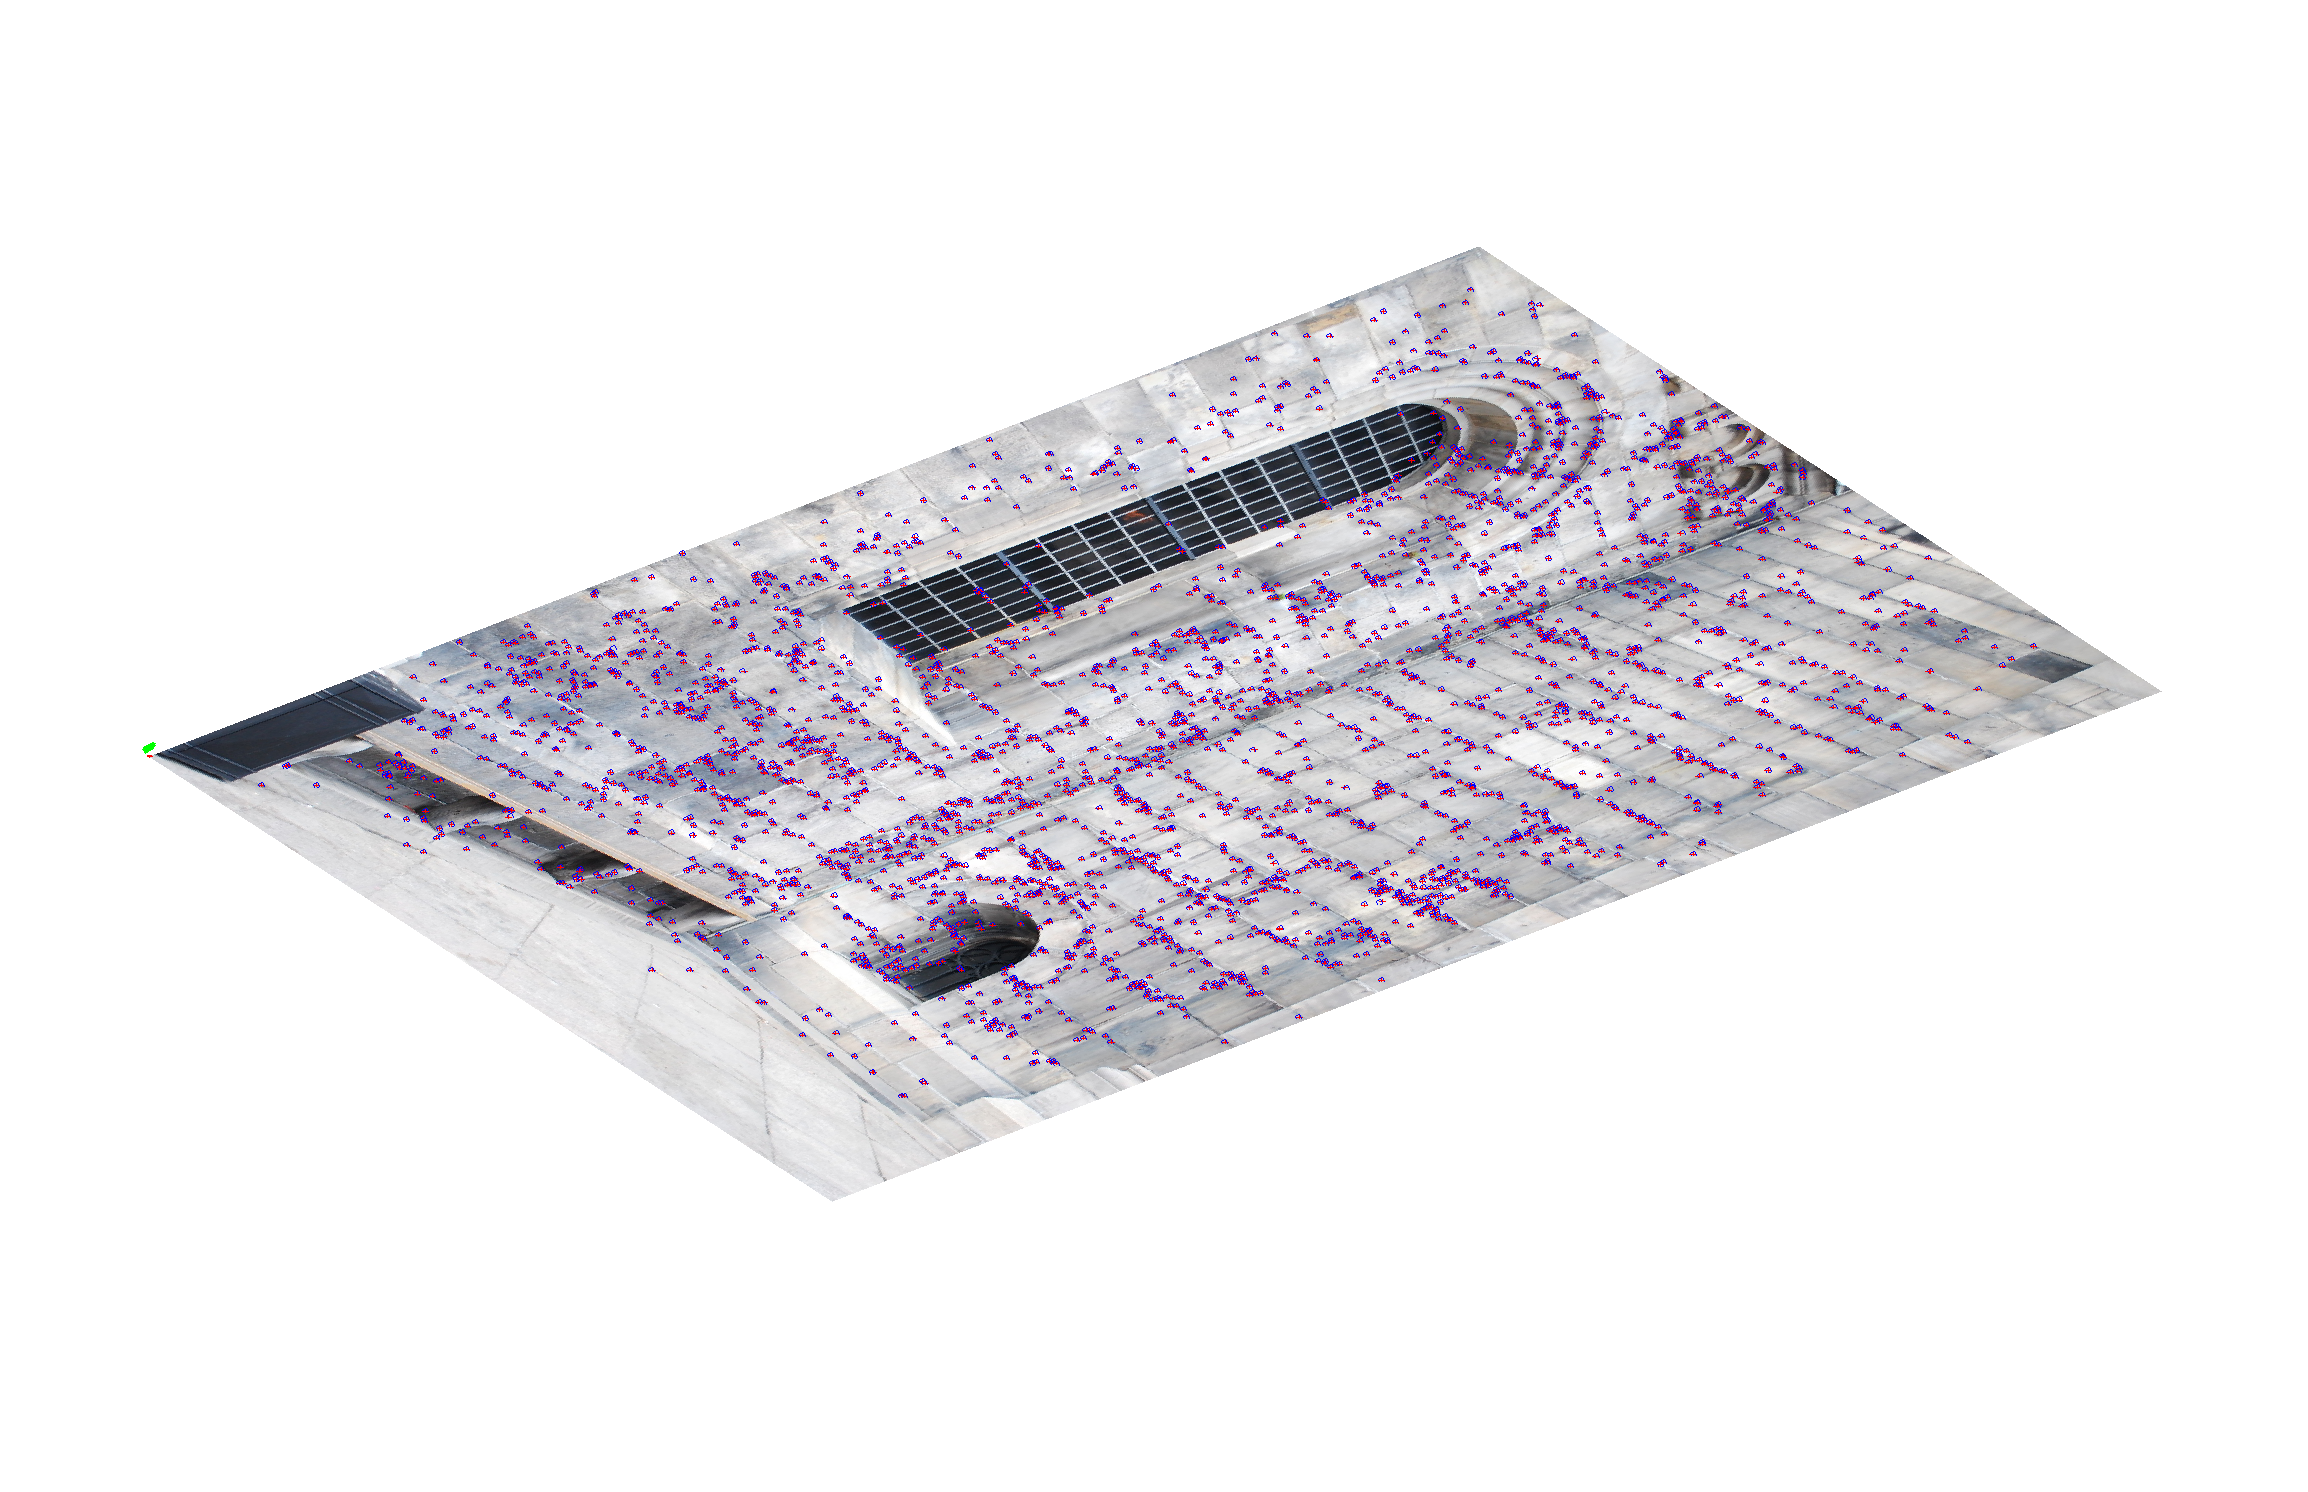
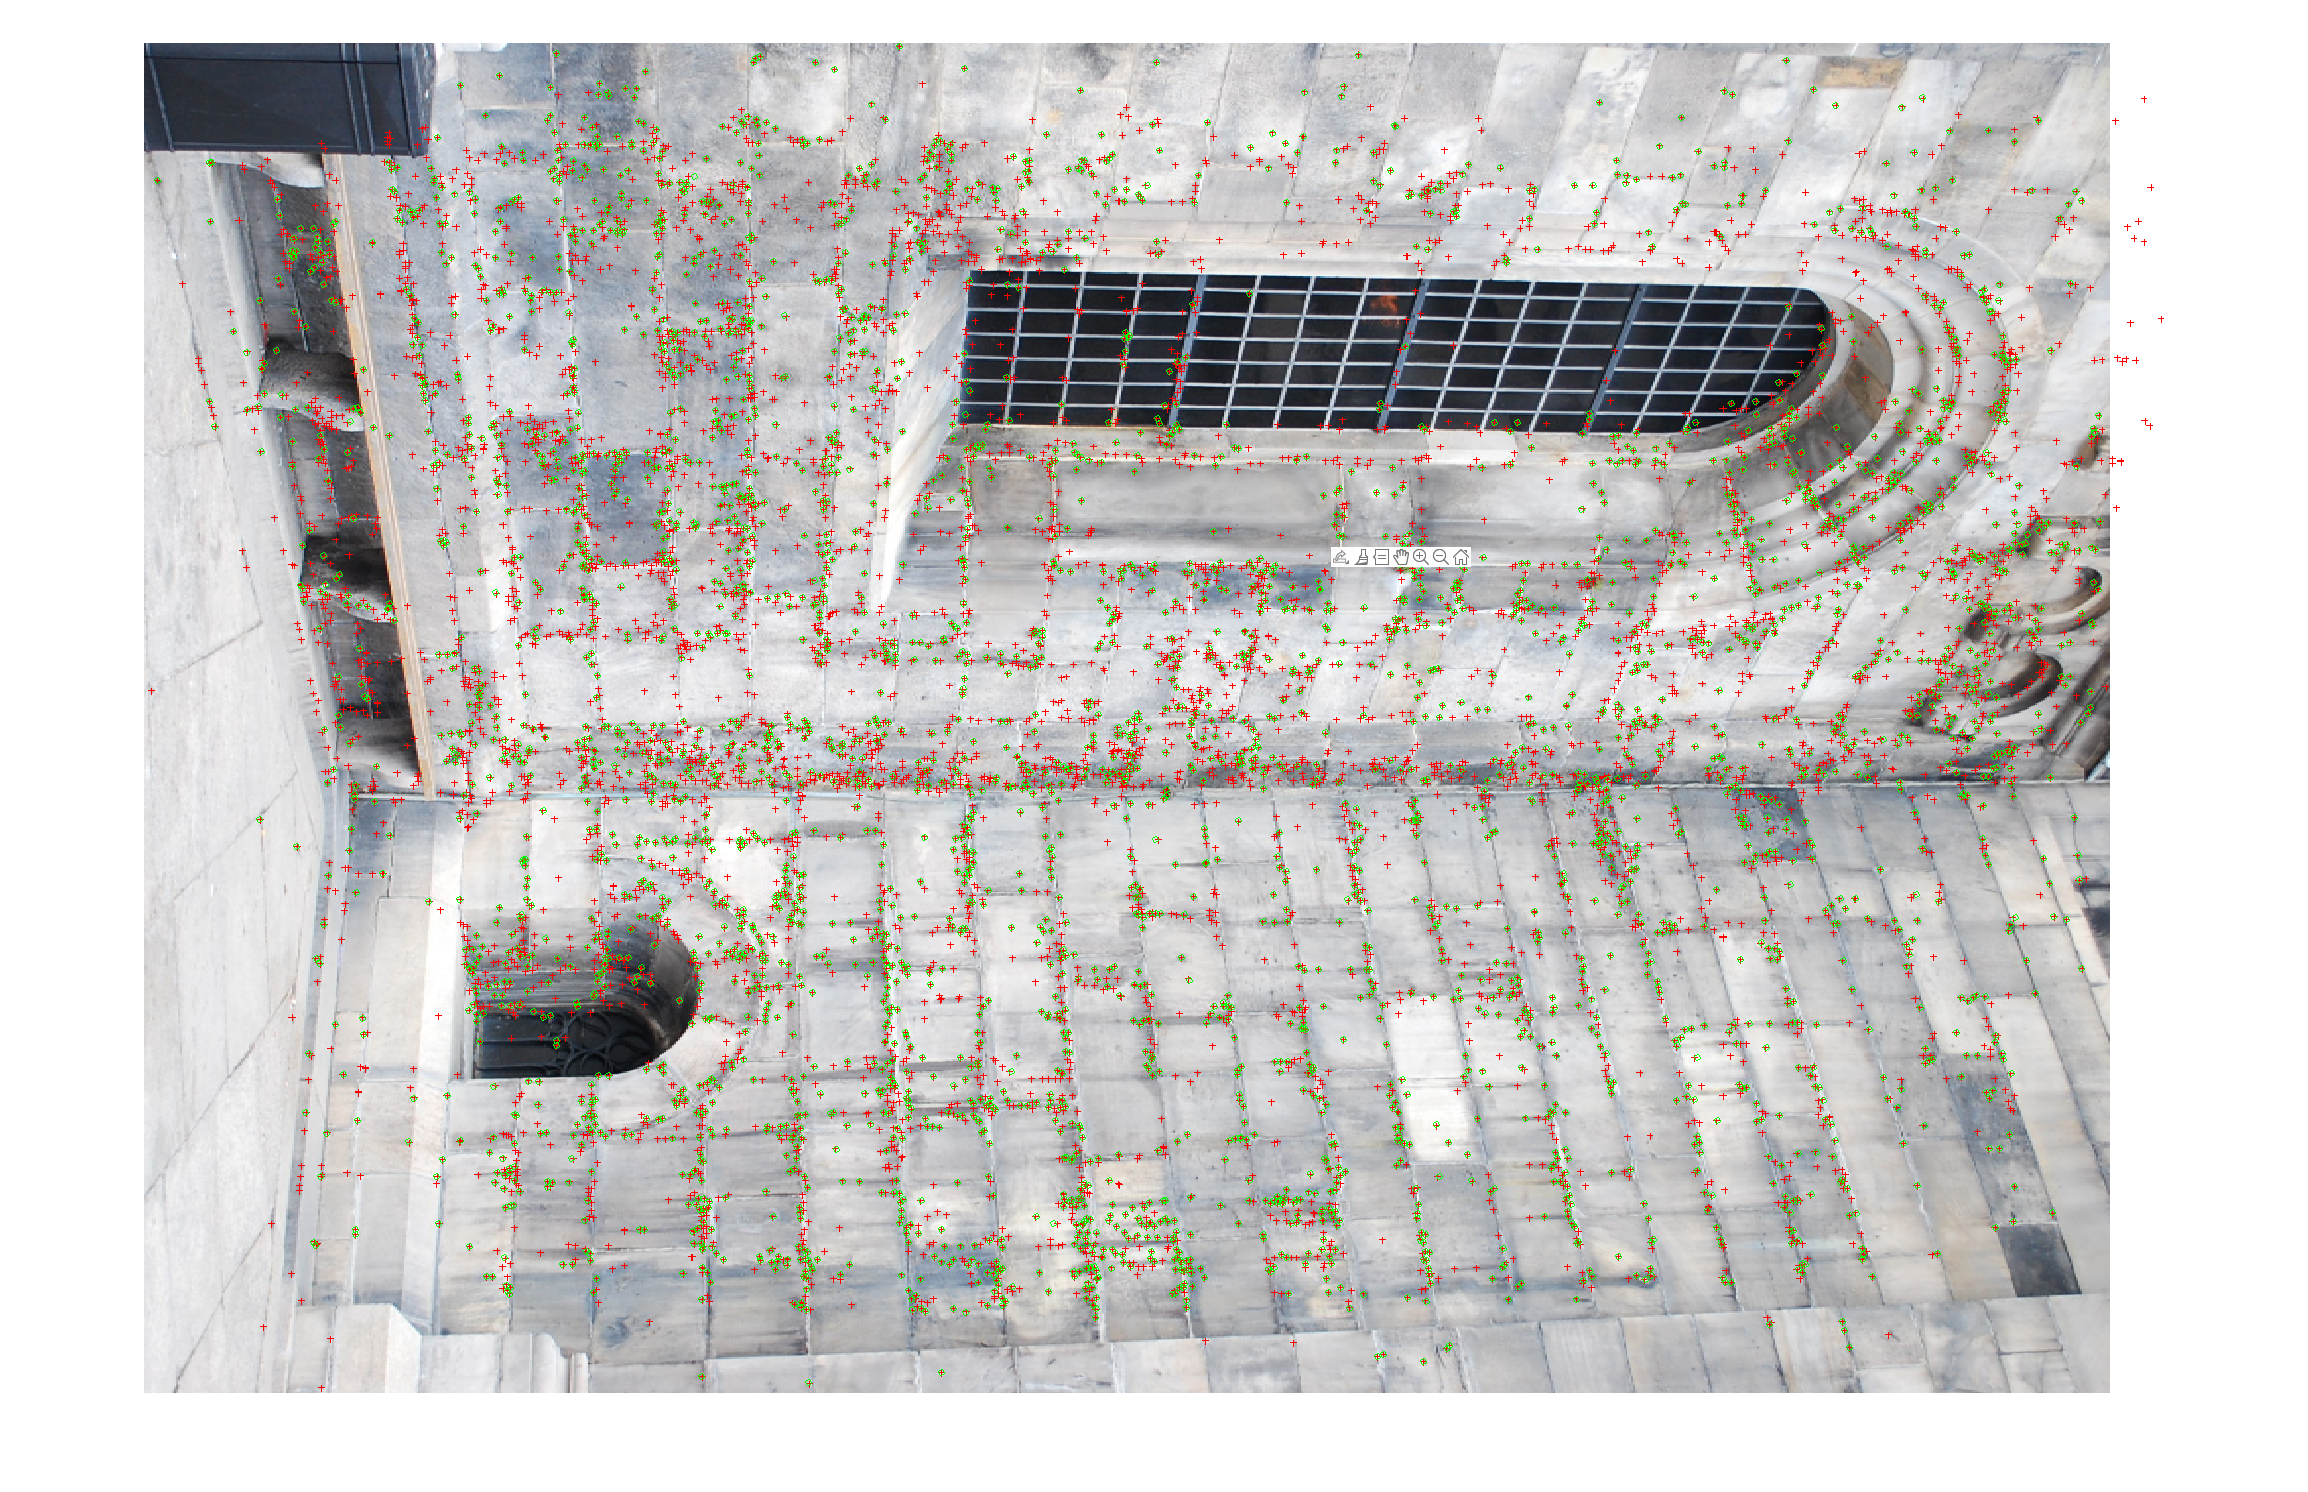
A2 task 1 done

diff --git a/assignment/A2/run1.m b/assignment/A2/run1.m
@@ -32,7 +32,7 @@ axis equal
 saveas(gcf,"c1_2.png");
 hold off
 
-% (3) plot TX and Pinv(T) 
+% (3) plot T*X and P*inv(T) 
 T1= [1 0 0 0; 0 3 0 0; 0 0 1 0; 1/8 1/8 0 1]
 T2= [1 0 0 0; 0 1 0 0; 0 0 1 0; 1/16 1/16 0 1]
 X1= T1*X;
@@ -41,6 +41,7 @@ X2= T2*X;
 X1_f = X1 ./ X1(end,:);
 X2_f = X2 ./ X2(end,:);
 
+% new cameras 
 Pt1 = cell(1,length(P));
 Pt2 = cell(1,length(P));
 for i = 1:length(P)
@@ -65,17 +66,20 @@ saveas(gcf,"c1_T2.png");
 hold off 
 
 % (4) 
-% plot 1st img with T1X  and Pt1_1*T1X 
+% plot 1st img with T1X  and Pt1_1*T1X
+% should we just pass the visable points to the fucntion? (TODO)
+project_and_plot(Pt1{1}, X1_f,imread(imfiles{1}));
 hold on
 plot(x{1}(1,x1_idx), x{1}(2,x1_idx), 'o', 'color', 'b', 'Markersize', 3);
-project_and_plot(Pt1{1}, X1_f(:,x1_idx),imread(imfiles{1}));
+axis equal
 saveas(gcf,"c1_4_T1.png");
 hold off
 
 % plot 1st img with T2X  and Pt2_1*T1X 
+project_and_plot(Pt2{1}, X2_f,imread(imfiles{1}));
 hold on
-plot(x{1}(1,x1_idx), x{1}(2,x1_idx), 'o', 'color', 'b', 'Markersize', 3);
-project_and_plot(Pt2{1}, X2_f(:,x1_idx),imread(imfiles{1}));
+plot(x{1}(1,x1_idx), x{1}(2,x1_idx), 'o', 'color', 'g', 'Markersize', 3);
+axis equal
 saveas(gcf,"c1_4_T2.png");
 hold off
 

diff --git a/assignment/A2/code/project_and_plot.m b/assignment/A2/code/project_and_plot.m
@@ -7,6 +7,8 @@ x_p = P*X;
 x_p_f = x_p ./ x_p(end,:);
 
 imshow(image);
+hold on 
 plot(x_p_f(1,:), x_p_f(2,:),'+', 'Markersize', 3, 'color', 'r');
+hold off
 end
 

diff --git a/assignment/A2/report.md b/assignment/A2/report.md
@@ -6,7 +6,7 @@
 ####  Theoratical exercise 1
 + (1)
 
-For estimated points $X$ in 3D space and camera P, the projected points in P is:
+For estimated points $X$ in 3D space and camera P, the projtective points in P is:
 ```math
   {\lambda}x = PX
 ```
@@ -16,7 +16,34 @@ For any projective transformation $T$ of 3D space to $X$, we have:
 ```
 Then:
 ```math
-  {\lambda}x = PX = PT^{-1}TX = (PT^{-1})(TX)
+  {\lambda}x = PX = PT^{-1}TX = (PT^y{-1})(TX)
 ```
 Where $PT^{-1}$ is the new camera for the new 3D points $X'$.
 
+####  Computer Exercise 1
+code file "run1.m" is for this task.
++ (1) 
+plot the 3D points of the reconstruction.  
+No, the physical properties doesn't look realistic.  
+![](./c1_1.png)  
+
++ (2)  
+plot the image, the projtective points and the image points in the same figure.  
+(**Here I plot the first image**)  
+red + are projtective points from 3D points **X**. blue o are image points from **x**  
+These points are matched very well.
+![](c1_2/../c1_2.png)  
+
++ (3)  
+$T_1X$ with cameras.  
+![](./c1_T1.png)  
+$T_2X$ with cameras.  
+![](./c1_T2.png)  
+<!-- Todo: answer for: what happened to the 3D points? Does any of them appear reasonable? -->
+
++ (4)  
+Project $T_1X$  and $T_2X$ into new corresponding cameras. (Here we still choose the first view. Red '+' are projtective points from $T_iX$)  
+$T_1X$ projtective points  
+![](./c1_4_T1.png)  
+$T_2X$ projtective points  
+![](./c1_4_T2.png)
